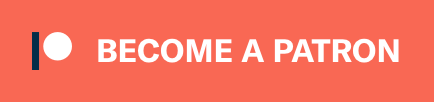
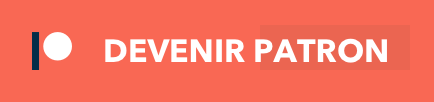
Update patreon nav button
Translate to french and track analytics events

Changed region(s): [[0.2097, 0.3824, 0.9286, 0.6176]]

diff --git a/themes/cinetime/source/js/app.js b/themes/cinetime/source/js/app.js
@@ -121,6 +121,16 @@ function lazyLoadImages(images) {
 	}, 5000)
 })();
 
+function patreonEvent() {
+	console.log("Patreon event sent");
+	ga('send', {
+		hitType: 'event',
+		eventCategory: 'Patreon FR',
+		eventAction: 'click',
+		eventLabel: 'Navigation Button'
+		});
+}
+
 // Enable tooltips
 $(function () {
   $('[data-toggle="tooltip"]').tooltip()
